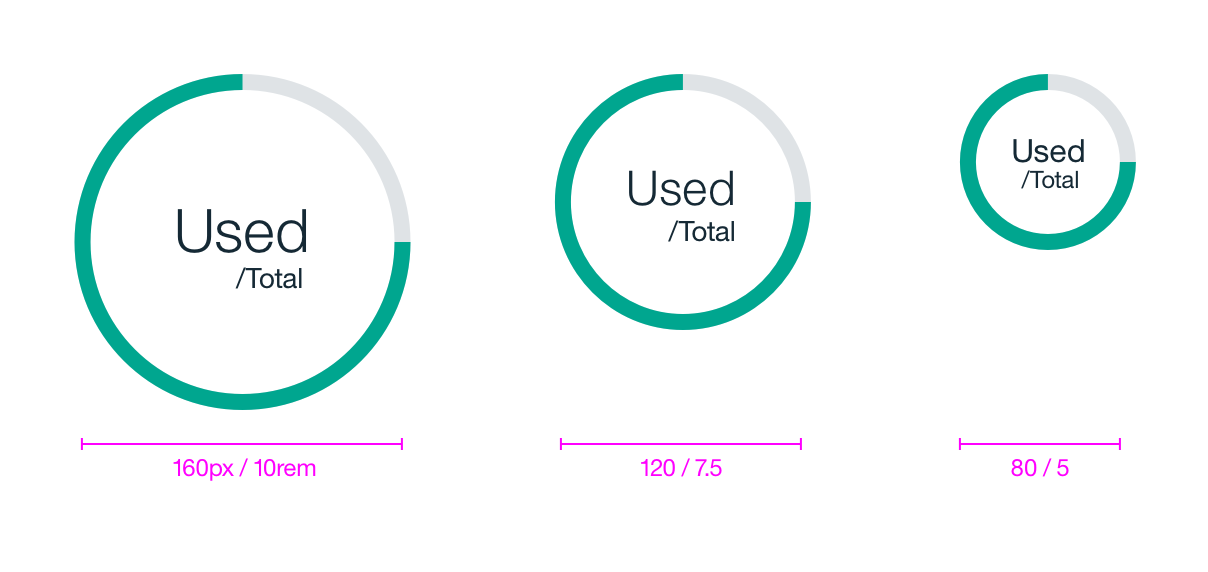
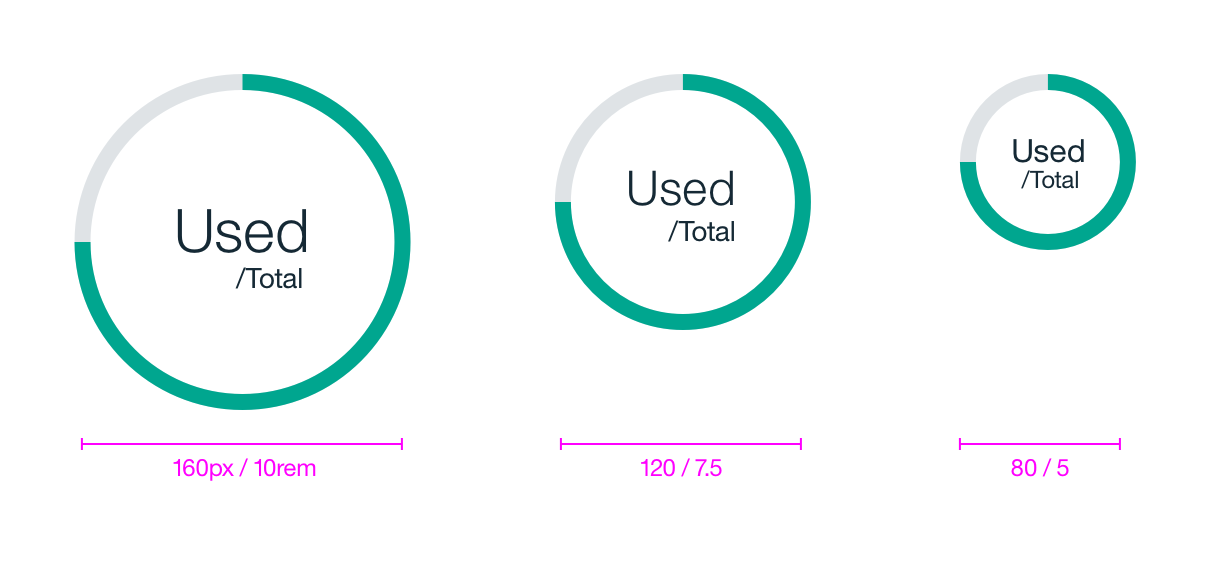
updated content for circle gauge, added in scatterplot and pie chart style and usage tab content and images

Changed region(s): [[0.0613, 0.1189, 0.3369, 0.4458], [0.4594, 0.1189, 0.6738, 0.3566], [0.7964, 0.1189, 0.9495, 0.2972]]

diff --git a/src/content/components/data-vis/circle-gauge/usage.md b/src/content/components/data-vis/circle-gauge/usage.md
@@ -1,6 +1,6 @@
 ## General guidelines
 
-Gauge graphs show individual values that make up a whole data set so users can compare the values to each other and see how each value compares to the whole. A common way to express the part-to-whole relationship is to use percentages, with the whole equaling 100% and each of its parts equaling smaller percentages corresponding to its value relative to the whole.
+Gauge graphs show the part-to-whole relationship of one value compared to its total. The gauge moves clockwise or counterclockwise depending on its content. When a value is expressing the amount used out of a total, the gauge will start empty and fill-in clockwise. In contrast, if a value is showing the amount remaining out of a total, the gauge will start full then empty counterclockwise.
 
 
 ![Circle Gauge example](images/usage-circle-gauge.png)

diff --git a/src/content/components/data-vis/pie-chart/usage.md b/src/content/components/data-vis/pie-chart/usage.md
@@ -1,4 +1,6 @@
-## Pie chart usage
+## General Guidelines
+
+Pie charts show individual values that make up a whole data set so users can compare the values to each other and see how each value compares to the whole. A common way to express the part-to-whole relationship is to use percentages, with the whole equaling 100% and each of its parts equaling smaller percentages corresponding to its value relative to the whole. Expressing exact values is useful as long as the total is also shown.
 
 
 ![Pie Chart example](images/usage-pie-chart.png)

diff --git a/src/content/components/data-vis/pie-chart/style.md b/src/content/components/data-vis/pie-chart/style.md
@@ -1,1 +1,15 @@
-## Pie chart style
+## Color
+
+Refer to the style tab on the [Data Vis overview page](/data-vis/overview/style) for base graph style specifications.
+
+## Structure
+
+| PROPERTY                       | PX   | REM   |
+|--------------------------------|------|-------|
+| Height & width			          | 192  | 12    |
+| Chart Thickness                | 30   | 1.875 |
+| Spacing: data representations  | 2    | -     |
+
+
+![Pie Chart example](images/style-pie-chart.png)
+_Example of a Pie Chart | px/rem_

diff --git a/src/content/components/data-vis/scatter-plot/style.md b/src/content/components/data-vis/scatter-plot/style.md
@@ -13,3 +13,7 @@ Refer to the style tab on the [Data Vis overview page](/data-vis/overview/style)
 |----------------------|----|------|
 | Height & width			 | 8  |  0.5 |
 | Hover height & width | 20 | 1.25 |
+
+
+![Scatter Plot example](images/style-scatter-plot.png)
+_Example of a Scatter Plot_
